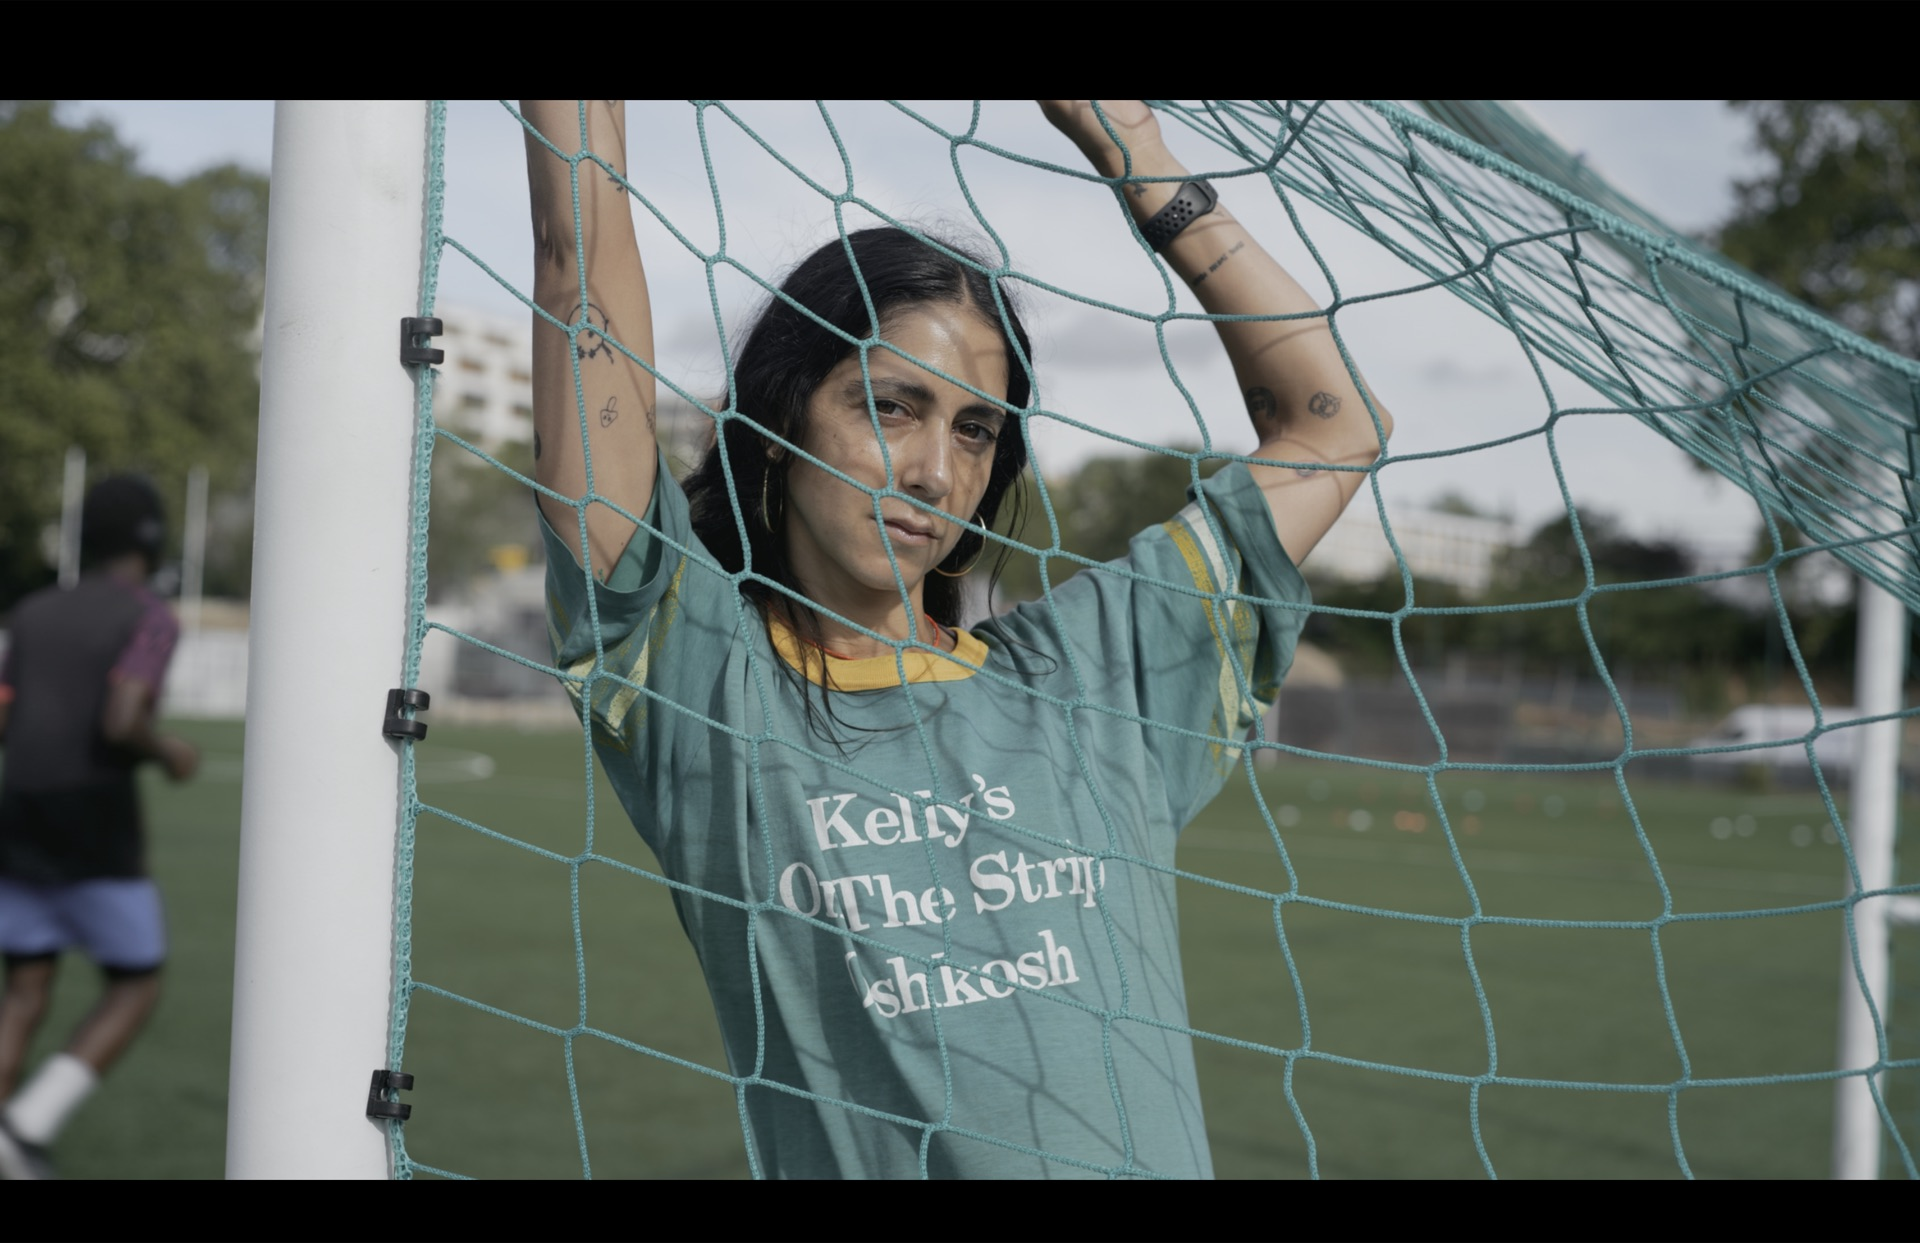
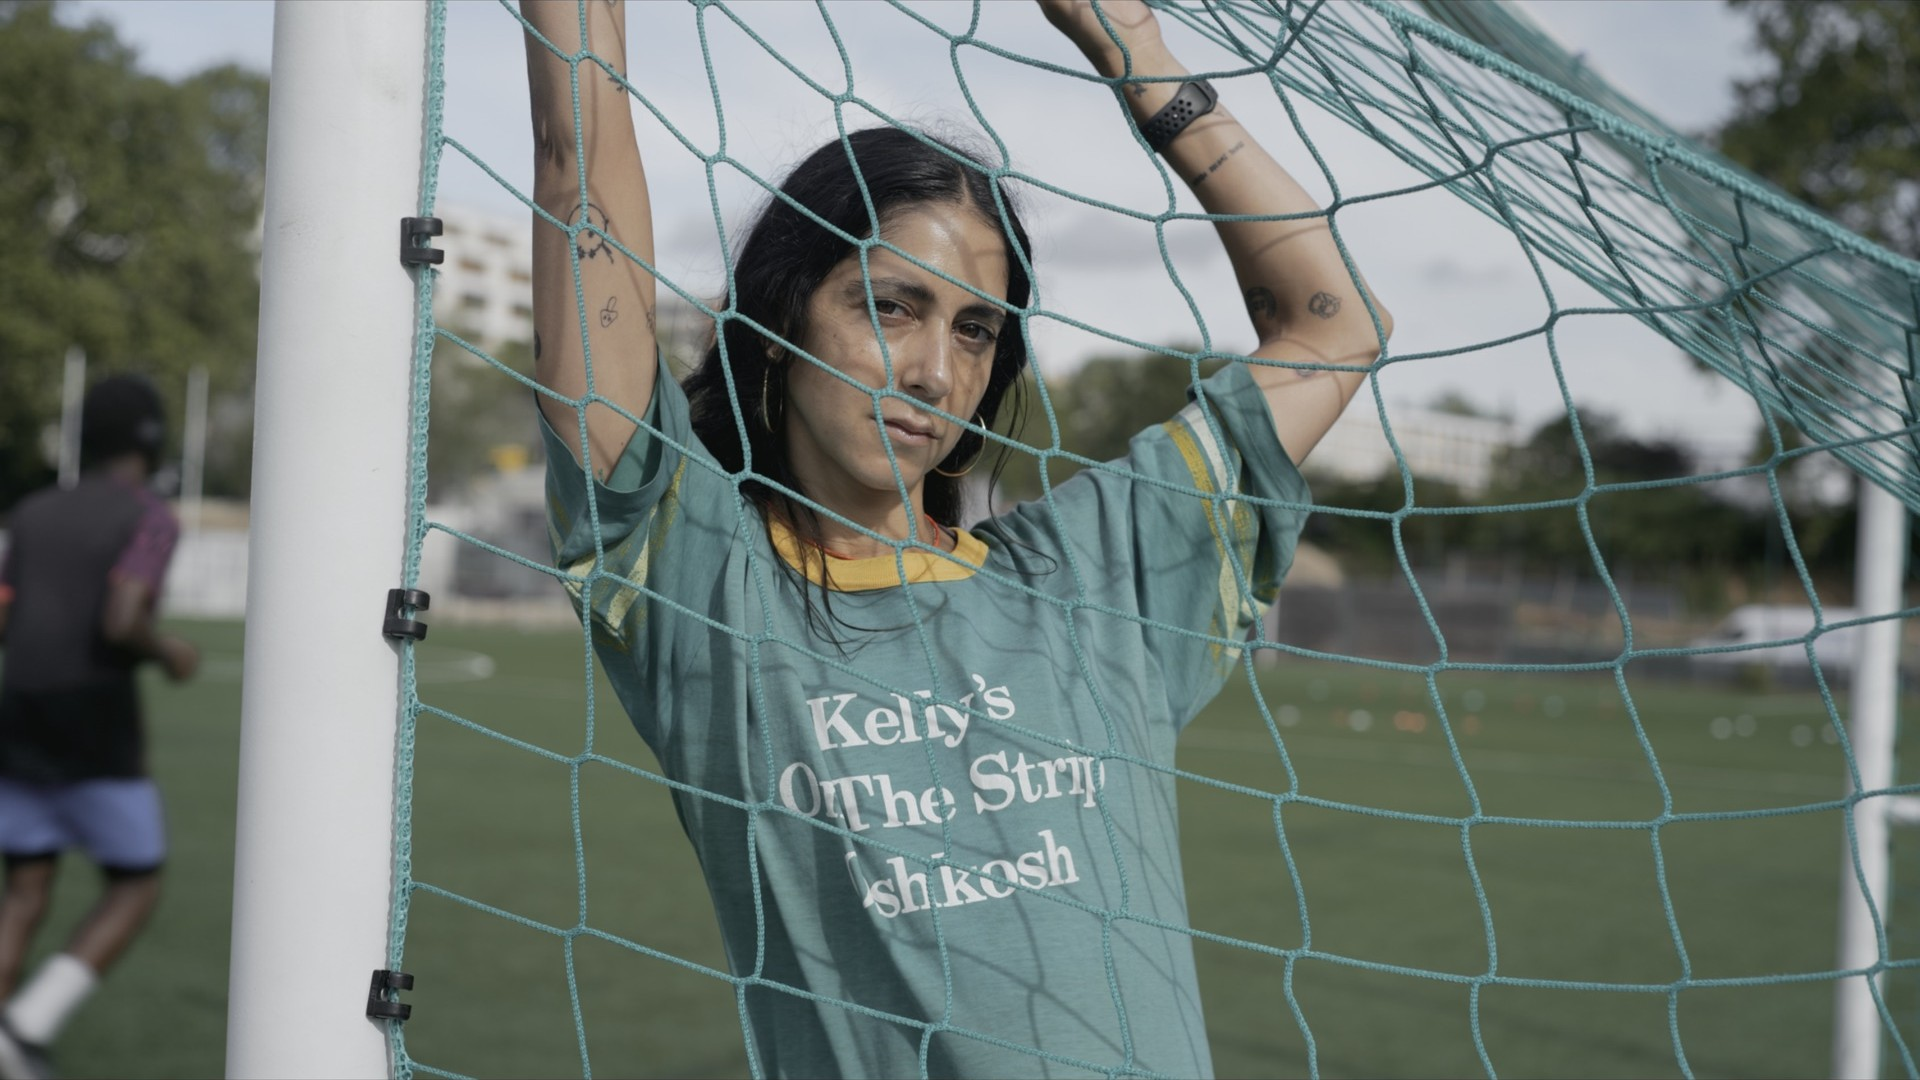
Corrige les bandes noires du hero sur mobile : la photo avait des bandes noires intégrées (1920x1243 au lieu de 1920x1080), invisibles sur desktop mais révélées par le recadrage cover sur écran étroit. Photo recadrée, original gardé en backup. Fond body aussi passé en noir faded (plus de blanc résid
Claude-Session: https://claude.ai/code/session_01JpaSujCXHBfFFJ5wgo9sSk

diff --git a/index.html b/index.html
@@ -31,7 +31,7 @@
     body {
       font-family: 'Inter', sans-serif;
       color: var(--text);
-      background: #ffffff;
+      background: var(--navy);
       overflow-x: hidden;
       padding-top: 60px;
     }
